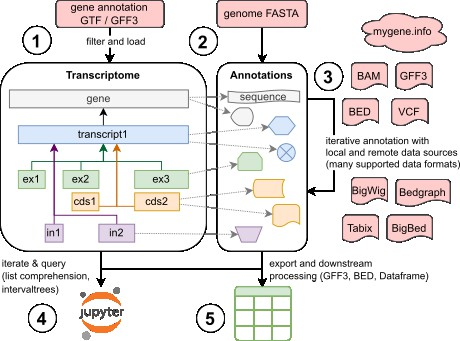
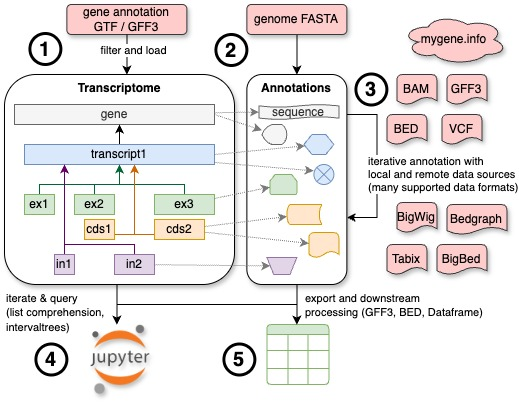
added visual abstract to docs

diff --git a/docs/readme.rst b/docs/readme.rst
@@ -11,8 +11,29 @@ rnalib: a python-based genomics library
 =========================================
 
 *Rnalib*  is a python library for handling transcriptomics data. It implements a transcriptome model and provides
-efficient iterators for the annotation of its features (genes, transcripts, exons, etc.).
+efficient iterators for the annotation of its features (genes, transcripts, exons, etc.) with large genomics datasets.
 It also provides a number of utility functions for working with genomics data.
+
+
+.. image:: https://github.com/popitsch/rnalib/raw/main/docs/_static/rnalib-visual_abstract.jpg
+   :alt: Introduction to rnalib
+   :align: center
+
+
+The figure above illustrates a typical application scenario for *rnalib*: (1) A Transcriptome, object is instantiated
+from a filtered GFF3 gene annotation file. The hierarchical relationships between genes, transcripts and sub-features
+(exons, introns, CDS, etc.) are explicitly modelled as Python objects. (2) Sequences for the instantiated gene intervals
+are loaded from a reference genome FASTA file and stored in an annotation dict.
+Sequences of sub-features are sliced from there on request. Thereby, *rnalib* avoids storing redundant information
+(i.e., explicit sub-feature sequences). The same mechanism can also be used for sliceable custom annotations.
+(3) Transcriptome features are sequentially annotated with genomics data using *rnalib* iterators that support a wide
+range of common data formats as well as any tabix-indexed data file. Gene annotations can directly be queried from
+MyGene.info which collates up-to-date annotation data from many large public databases including *Ensembl*, *UniProt*
+or *PharmGKB*. (4) Users can conveniently access the data, e.g., via interactive *Jupyter* notebooks.
+Efficient querying via standard Python list comprehension or (location based) intervaltree queries is supported.
+(5) Finally, data can be exported in various formats for downstream processing. This includes BED/GFF3 files but also
+*pandas* *DataFrames* with customisable columns that can then be further processed, e.g., plotted with
+*matplotlib*/*seaborn* or analysed with *bioframe*.
 
 Design
 ------
@@ -28,7 +49,7 @@ Here are our main *rnalib* design considerations:
   that store chromosome names, their order and (possibly) lengths.
   Reference dictionaries are used to **validate and merge** genomic datasets from different sources.
 
-* Associated annotation data are represented by **arbitrary, mutable objects** (e.g., dicts, *numpy* arrays or
+* Associated annotation data are represented by **arbitrary, mutable or immutable objects** (e.g., dicts, *numpy* arrays or
   *pandas* dataframes).
 
 * *Rnalib* implements a `Transcriptome <_api/rnalib.html#rnalib.Transcriptome>`_ class that explicitly models **genomic
@@ -58,6 +79,7 @@ Here are our main *rnalib* design considerations:
 
 *Rnalib*'s target audience are bioinformatics analysts and developers and its main design goal is to enable
 **fast, readable, reproducible and robust development of novel bioinformatics tools and methods**.
+
 
 Installation
 ------------
